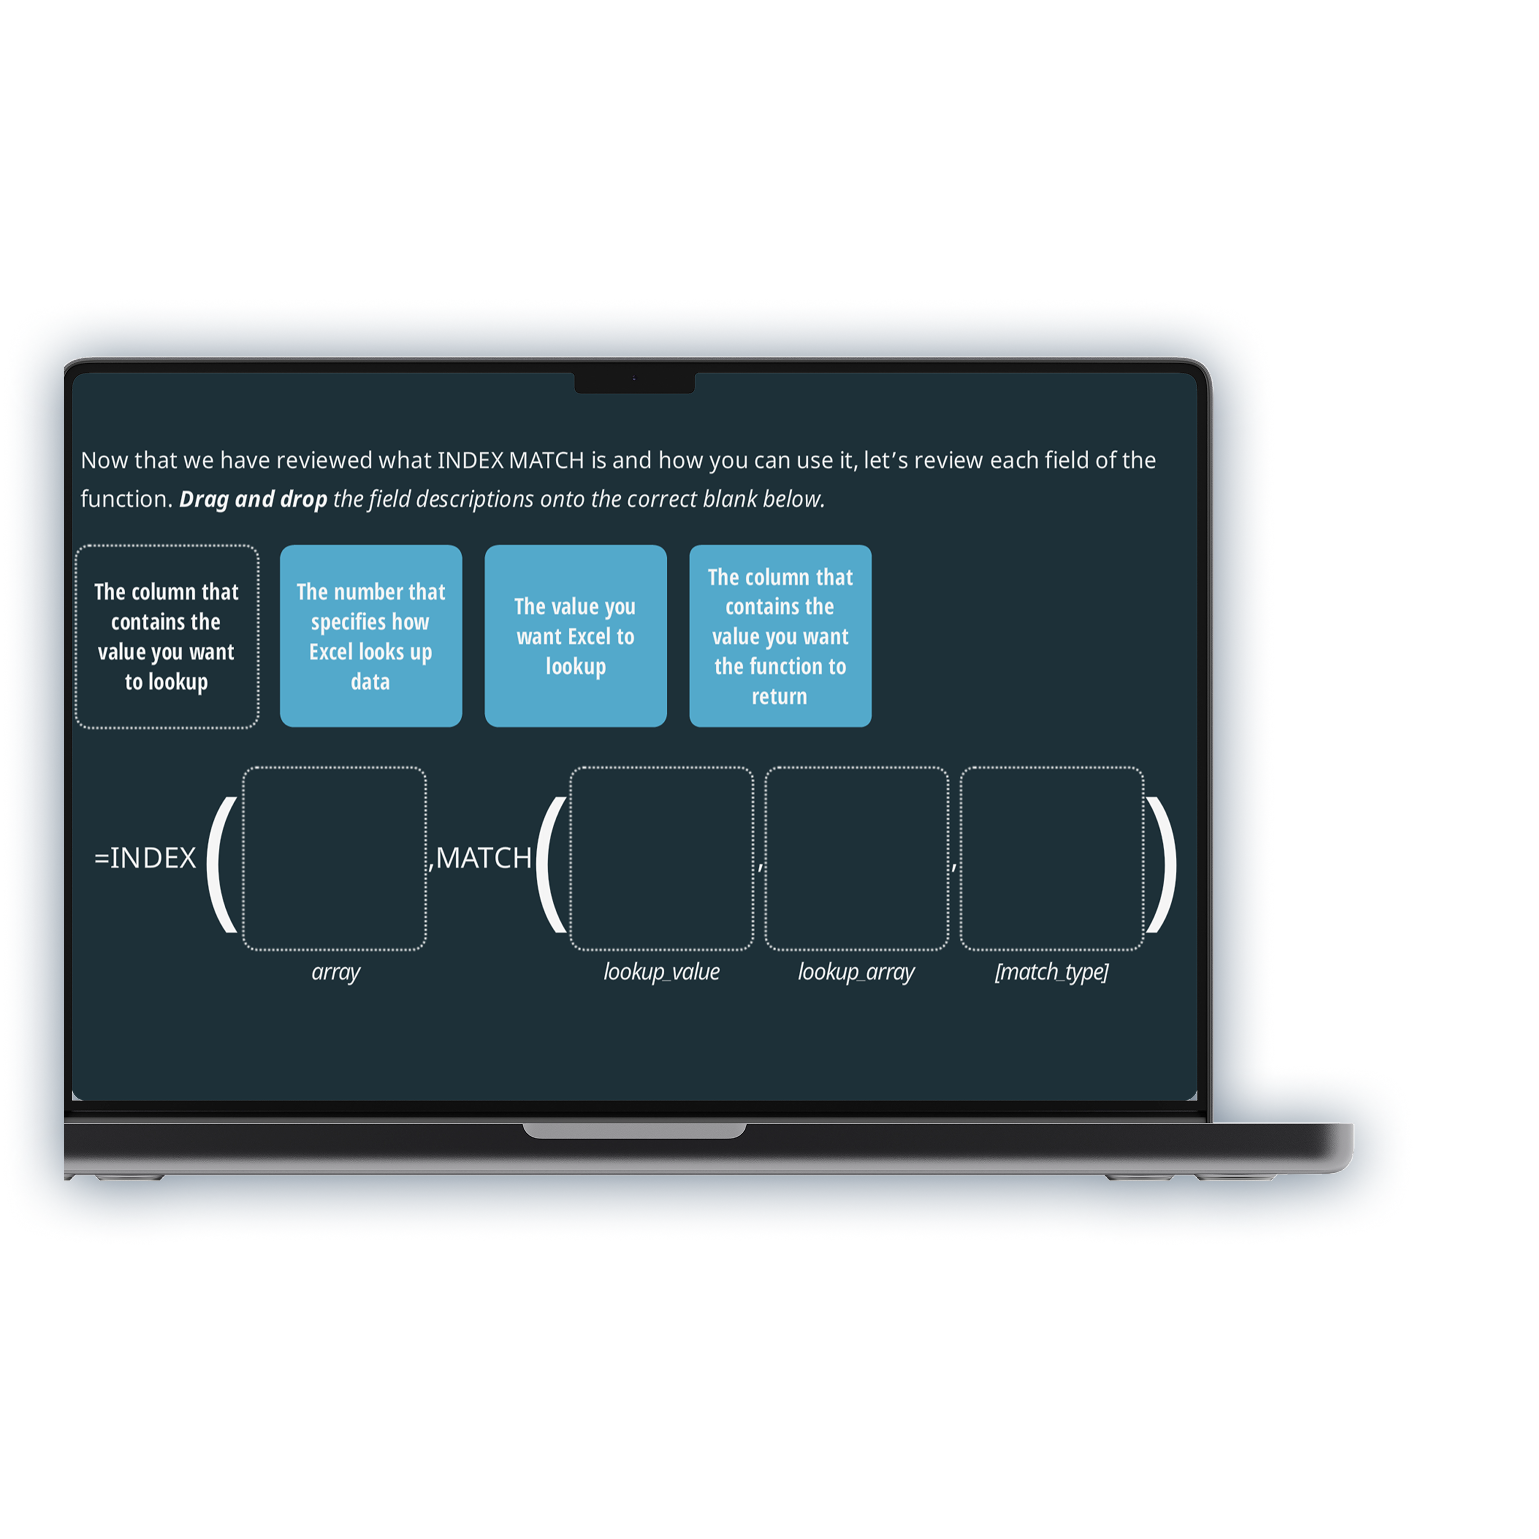
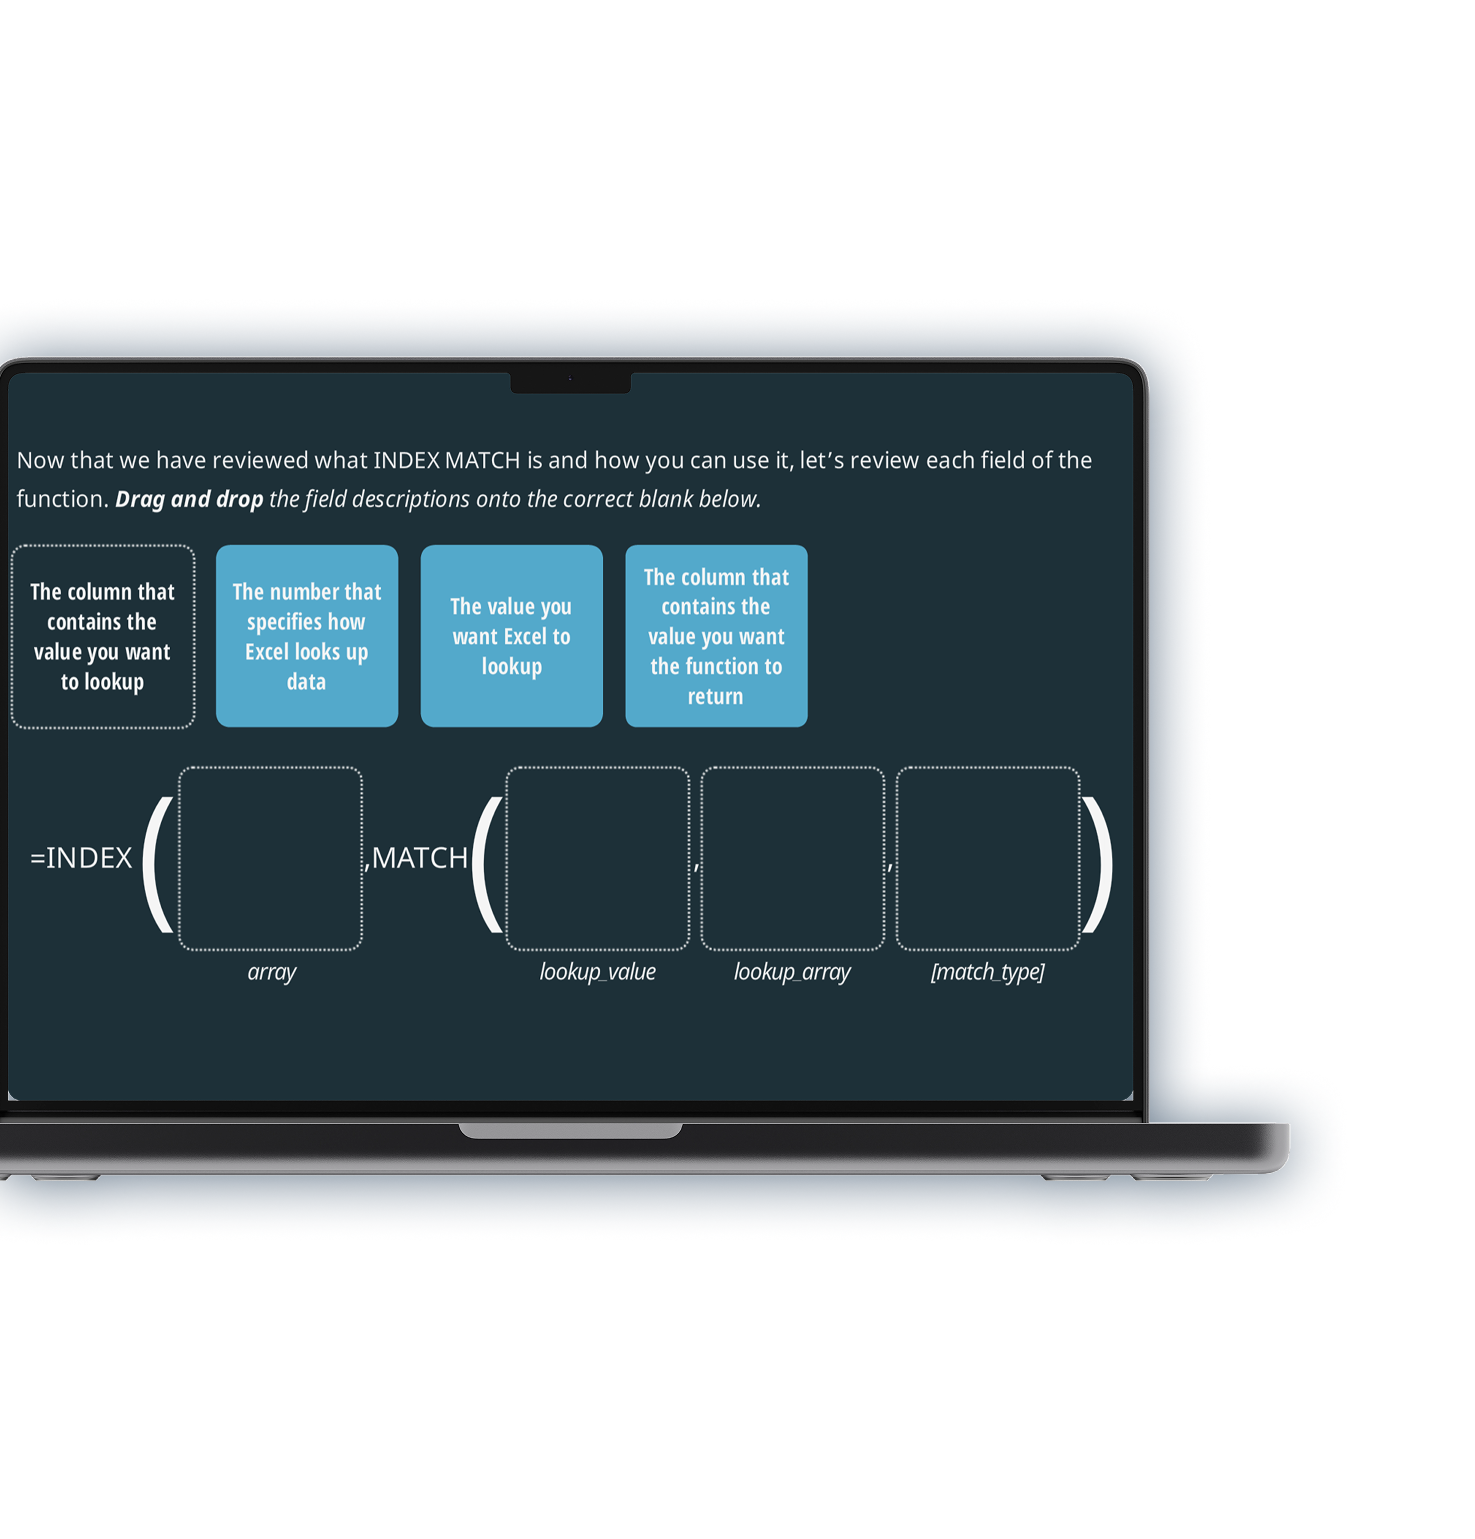
fixed hero text wrapping and other small issues

diff --git a/app/projects/rapid-prototype-testing/page.tsx b/app/projects/rapid-prototype-testing/page.tsx
@@ -33,37 +33,29 @@ export default function RapidPrototypeTestingPage() {
       {/* All page content - centered wrapper */}
       <div className="max-w-[1280px] mx-auto px-6">
         {/* Challenge Section */}
-        <section
-          id="challenge"
-          className="py-6 md:py-12 lg:py-12 max-w-[580px] mx-auto"
-        >
+        <section id="challenge" className="py-6 md:py-12 lg:py-12 max-w-[580px] mx-auto">
           <h2 className="h3-bold text-mist-dark mb-6">Challenge</h2>
           <div className="body-base text-neutral-dark space-y-4">
             <p>
-              At Gartner, my team supported 18 product teams across three brands
-              serving more than nine million monthly users. While user research
-              was highly valued, our operating model made it difficult to
-              influence product decisions at the pace teams were shipping.
+              At Gartner, my team supported 18 product teams across three brands serving more than
+              nine million monthly users. While user research was highly valued, our operating model
+              made it difficult to influence product decisions at the pace teams were shipping.
             </p>
             <p>
-              Research was typically conducted as large, project-based studies
-              designed to answer every question at once. These studies often
-              took six to eight weeks to complete, limiting teams' ability to
-              iterate, validate assumptions, and learn continuously.
+              Research was typically conducted as large, project-based studies designed to answer
+              every question at once. These studies often took six to eight weeks to complete,
+              limiting teams' ability to iterate, validate assumptions, and learn continuously.
             </p>
             <p>As a result:</p>
             <ul className="list-disc list-outside pl-6 space-y-2 body-base text-neutral-dark">
               <li>Research was often disconnected from sprint cycles.</li>
-              <li>
-                Product teams hesitated to request studies because of lead
-                times.
-              </li>
+              <li>Product teams hesitated to request studies because of lead times.</li>
               <li>Design decisions were made with limited user feedback.</li>
               <li>Valuable opportunities for iteration were missed.</li>
             </ul>
             <p>
-              I saw an opportunity to fundamentally change how research and
-              product development worked together.
+              I saw an opportunity to fundamentally change how research and product development
+              worked together.
             </p>
           </div>
         </section>
@@ -74,7 +66,7 @@ export default function RapidPrototypeTestingPage() {
           <div className="block md:hidden">
             <Image
               src="/images/rapid-prototype/3-steps-mobile.svg"
-              alt="Three-step process diagram showing a rapid testing approach that moves from quick research to learning and iteration."
+              alt="Three-step diagram showing the problems with the traditional research process."
               width={600}
               height={400}
             />
@@ -84,7 +76,7 @@ export default function RapidPrototypeTestingPage() {
           <div className="hidden md:block">
             <Image
               src="/images/rapid-prototype/3-steps.svg"
-              alt="Three-step process diagram showing a rapid testing approach that moves from quick research to learning and iteration."
+              alt="Three-step diagram showing the problems with the traditional research process."
               width={1200}
               height={600}
             />
@@ -93,14 +85,11 @@ export default function RapidPrototypeTestingPage() {
 
         {/* My Role Section */}
         <section className="py-6 md:py-12 lg:py-12 max-w-[580px] mx-auto">
-          <h3 className="h4-bold text-mist-dark mb-6">
-            My Role as a Design Leader
-          </h3>
+          <h3 className="h4-bold text-mist-dark mb-6">My Role as a Design Leader</h3>
           <div className="body-base text-neutral-dark space-y-4">
             <p>
-              As Associate Director of UX, I led the creation and rollout of a
-              new rapid-testing operating model designed to embed customer
-              feedback directly into product development.
+              As Associate Director of UX, I led the creation and rollout of a new rapid-testing
+              operating model designed to embed customer feedback directly into product development.
             </p>
             <p>I was responsible for:</p>
             <ul className="list-disc list-outside pl-6 space-y-2 body-base text-neutral-dark">
@@ -114,33 +103,25 @@ export default function RapidPrototypeTestingPage() {
         </section>
 
         {/* Approach Section */}
-        <section
-          id="approach"
-          className="py-6 md:py-12 lg:py-12 max-w-[580px] mx-auto"
-        >
-          <h2 className="h3-bold text-mist-dark mb-6 md:mb-6 lg:mb-6">
-            Approach
-          </h2>
+        <section id="approach" className="py-6 md:py-12 lg:py-12 max-w-[580px] mx-auto">
+          <h2 className="h3-bold text-mist-dark mb-6 md:mb-6 lg:mb-6">Approach</h2>
           <div className="body-base text-neutral-dark space-y-4">
             <p>
-              Rather than treating research as a standalone activity, I
-              partnered with product leadership to redesign how teams learned
-              from users. We shifted from large, multi-question studies toward a
-              series of focused experiments designed to answer a small number of
-              high-priority questions each sprint.
+              Rather than treating research as a standalone activity, I partnered with product
+              leadership to redesign how teams learned from users. We shifted from large,
+              multi-question studies toward a series of focused experiments designed to answer a
+              small number of high-priority questions each sprint.
             </p>
             <p>This allowed teams to:</p>
             <ul className="list-disc list-outside pl-6 space-y-2 body-base text-neutral-dark">
               <li>Validate assumptions earlier.</li>
               <li>Iterate on designs continuously.</li>
               <li>Reduce the cost of failed ideas.</li>
-              <li>
-                Incorporate customer feedback into ongoing decision-making.
-              </li>
+              <li>Incorporate customer feedback into ongoing decision-making.</li>
             </ul>
             <p>
-              The goal was not simply faster research—it was creating a
-              sustainable system for evidence-based product development.
+              The goal was not simply faster research—it was creating a sustainable system for
+              evidence-based product development.
             </p>
           </div>
         </section>
@@ -169,22 +150,16 @@ export default function RapidPrototypeTestingPage() {
         </div>
 
         {/* Example 1 Section */}
-        <section
-          id="recommendations"
-          className="py-6 md:py-12 lg:py-12 max-w-[580px] mx-auto"
-        >
+        <section id="recommendations" className="py-6 md:py-12 lg:py-12 max-w-[580px] mx-auto">
           <h2 className="h3-bold text-mist-dark mb-6 md:mb-6 lg:mb-6">
             Examples and Recommendations
           </h2>
-          <h3 className="h4-bold text-neutral-dark mb-6">
-            Example #1: New Product Development
-          </h3>
+          <h3 className="h4-bold text-neutral-dark mb-6">Example #1: New Product Development</h3>
           <div className="space-y-4 body-base text-neutral-dark">
             <p>
-              I piloted the new process with a newly formed team launching
-              Capterra Services, a brand-new product line. We scoped our
-              research questions so that we could provide results in a single
-              sprint. We piloted three tests:
+              I piloted the new process with a newly formed team launching Capterra Services, a
+              brand-new product line. We scoped our research questions so that we could provide
+              results in a single sprint. We piloted three tests:
             </p>
             <ul className="list-disc list-outside pl-6 space-y-2">
               <li>Pricing clarity on mobile</li>
@@ -192,10 +167,9 @@ export default function RapidPrototypeTestingPage() {
               <li>Ability to add/remove service providers on mobile</li>
             </ul>
             <p>
-              Each test delivered clear insights in 10 business days or less,
-              helping the team iterate quickly and confidently. Ultimately, we
-              expected these designs to deliver better user experiences that
-              will in turn increase vendor conversion rate.
+              Each test delivered clear insights in 10 business days or less, helping the team
+              iterate quickly and confidently. Ultimately, we expected these designs to deliver
+              better user experiences that will in turn increase vendor conversion rate.
             </p>
           </div>
         </section>
@@ -228,19 +202,16 @@ export default function RapidPrototypeTestingPage() {
 
         {/* Example 2 Section */}
         <section className="py-6 md:py-12 lg:py-12 max-w-[580px] mx-auto">
-          <h3 className="h4-bold text-neutral-dark mb-6">
-            Example #2: Conversion Optimization
-          </h3>
+          <h3 className="h4-bold text-neutral-dark mb-6">Example #2: Conversion Optimization</h3>
           <div className="space-y-4 body-base text-neutral-dark">
             <p>
-              I then scaled to a more established team, resulting in speeding up
-              the ability for design to drive conversion and revenue impact. A
-              traditional test this team ran took 7 weeks, focused on improving
-              the trustworthiness of the forms that connect users to software
-              advisors. While that test successfully improved conversion by 18%,
-              we were looking to achieve similar results in less time. My new
-              rapid testing program delivered learnings in 1.5 weeks, with a
-              projected impact of $1 million in net new revenue.
+              I then scaled to a more established team, resulting in speeding up the ability for
+              design to drive conversion and revenue impact. A traditional test this team ran took 7
+              weeks, focused on improving the trustworthiness of the forms that connect users to
+              software advisors. While that test successfully improved conversion by 18%, we were
+              looking to achieve similar results in less time. My new rapid testing program
+              delivered learnings in 1.5 weeks, with a projected impact of $1 million in net new
+              revenue.
             </p>
           </div>
         </section>
@@ -254,15 +225,13 @@ export default function RapidPrototypeTestingPage() {
                 src: "/images/rapid-prototype/PPL form traditional test 1.png",
                 alt: "...",
                 header: "Traditional Test 1",
-                subheader:
-                  "How trustworthy are current-state Software Advice forms?",
+                subheader: "How trustworthy are current-state Software Advice forms?",
               },
               {
                 src: "/images/rapid-prototype/PPL form traditional test 2.png",
                 alt: "...",
                 header: "Traditional Test 2",
-                subheader:
-                  "How trustworthy are the re-designed Software Advice forms?",
+                subheader: "How trustworthy are the re-designed Software Advice forms?",
               },
             ]}
             captions={[
@@ -287,8 +256,7 @@ export default function RapidPrototypeTestingPage() {
                 src: "/images/rapid-prototype/PPL form rapid test 2.png",
                 alt: "...",
                 header: "Rapid Test 2",
-                subheader:
-                  "How trustworthy are the re-designed Capterra forms?",
+                subheader: "How trustworthy are the re-designed Capterra forms?",
               },
             ]}
             captions={[
@@ -300,22 +268,17 @@ export default function RapidPrototypeTestingPage() {
 
         {/* Example 3 Section */}
         <section className="py-6 md:py-12 lg:py-12 max-w-[580px] mx-auto">
-          <h3 className="h4-bold text-neutral-dark mb-6">
-            Example #3: Product Engagement
-          </h3>
+          <h3 className="h4-bold text-neutral-dark mb-6">Example #3: Product Engagement</h3>
           <div className="space-y-4 body-base text-neutral-dark">
             <p>
-              I also scaled to a team with a different goal, demonstrating how
-              the process works for a variety of teams and objectives. This team
-              was focused on improving the usability and usefulness of the
-              Capterra Shortlist. The last, traditional test ran on the
-              Shortlist took eight weeks. After coaching the team on switching
-              to a rapid testing model, the team saw an{" "}
-              <b>18.6% increase in engagement</b> from the first test. While the
-              second test was unsuccessful, the third test received more
-              positive feedback. Each test was only 8 business days, showing how
-              quickly the team could move on from a failed test and towards
-              better, more successful experiences.
+              I also scaled to a team with a different goal, demonstrating how the process works for
+              a variety of teams and objectives. This team was focused on improving the usability
+              and usefulness of the Capterra Shortlist. The last, traditional test ran on the
+              Shortlist took eight weeks. After coaching the team on switching to a rapid testing
+              model, the team saw an <b>18.6% increase in engagement</b> from the first test. While
+              the second test was unsuccessful, the third test received more positive feedback. Each
+              test was only 8 business days, showing how quickly the team could move on from a
+              failed test and towards better, more successful experiences.
             </p>
           </div>
         </section>
@@ -345,41 +308,32 @@ export default function RapidPrototypeTestingPage() {
                 src: "/images/rapid-prototype/Shortlist rapid test 2.png",
                 alt: "...",
                 header: "Shortlist Rapid Test 2",
-                subheader:
-                  "How useful is seeing more products?",
+                subheader: "How useful is seeing more products?",
               },
               {
                 src: "/images/rapid-prototype/Shortlist Rapid Test 3.png",
                 alt: "...",
                 header: "Shortlist Rapid Test 3",
-                subheader:
-                  "How useful are expanded product cards?",
+                subheader: "How useful are expanded product cards?",
               },
             ]}
           />
         </div>
 
         {/* Impact Section */}
-        <section
-          id="impact"
-          className="py-6 md:py-12 lg:py-12 max-w-[580px] mx-auto"
-        >
-          <h2 className="h3-bold text-mist-dark mb-6 md:mb-6 lg:mb-6">
-            Impact
-          </h2>
+        <section id="impact" className="py-6 md:py-12 lg:py-12 max-w-[580px] mx-auto">
+          <h2 className="h3-bold text-mist-dark mb-6 md:mb-6 lg:mb-6">Impact</h2>
           <div className="space-y-4 body-base text-neutral-dark">
             <p>
-              The rapid testing program I launched and scaled allowed us to
-              speed up time to insights without sacrificing reliability or
-              quality, enabling more iteration not just on the designs but on
-              our understanding of our users and what they need.
+              The rapid testing program I launched and scaled allowed us to speed up time to
+              insights without sacrificing reliability or quality, enabling more iteration not just
+              on the designs but on our understanding of our users and what they need.
             </p>
             <p>
               After launching this new way of doing research,{" "}
-              <b>we tripled the number of tests run quarter-over-quarter</b>. We
-              gathered more user feedback than ever before, meaning our product
-              teams were better positioned than ever before to make more
-              user-centered decisions. Executive leadership recognized the
+              <b>we tripled the number of tests run quarter-over-quarter</b>. We gathered more user
+              feedback than ever before, meaning our product teams were better positioned than ever
+              before to make more user-centered decisions. Executive leadership recognized the
               program as a success in C-Suite and team-wide forums.
             </p>
           </div>

diff --git a/app/components/Hero.tsx b/app/components/Hero.tsx
@@ -106,27 +106,27 @@ export default function Hero({
 
           {/* Project Metadata — only renders if meta is passed */}
           {meta && (
-            <div className="flex flex-col gap-2 mt-2 sm:ps-24">
+            <div className="flex flex-col items-center gap-2 mt-2 w-full text-center sm:items-end sm:ps-24 sm:text-right">
               {meta.role && (
-                <div className="flex flex-wrap items-baseline justify-center gap-x-1 sm:justify-end">
+                <div className="flex flex-wrap items-baseline justify-center gap-x-1 w-full text-center sm:justify-end sm:text-right">
                   <span className={`h5-bold ${textDark}`}>Role:</span>
                   <span className={`h5 ${textDark}`}>{meta.role}</span>
                 </div>
               )}
               {meta.team && (
-                <div className="flex flex-wrap items-baseline justify-center gap-x-1 sm:justify-end">
+                <div className="flex flex-wrap items-baseline justify-center gap-x-1 w-full text-center sm:justify-end sm:text-right">
                   <span className={`h5-bold ${textDark}`}>Team:</span>
                   <span className={`h5 ${textDark}`}>{meta.team}</span>
                 </div>
               )}
               {meta.reach && (
-                <div className="flex flex-wrap items-baseline justify-center gap-x-1 sm:justify-end">
+                <div className="flex flex-wrap items-baseline justify-center gap-x-1 w-full text-center sm:justify-end sm:text-right">
                   <span className={`h5-bold ${textDark}`}>Reach:</span>
                   <span className={`h5 ${textDark}`}>{meta.reach}</span>
                 </div>
               )}
               {meta.timeline && (
-                <div className="flex flex-wrap items-baseline justify-center gap-x-1 sm:justify-end">
+                <div className="flex flex-wrap items-baseline justify-center gap-x-1 w-full text-center sm:justify-end sm:text-right">
                   <span className={`h5-bold ${textDark}`}>Timeline:</span>
                   <span className={`h5 ${textDark}`}>{meta.timeline}</span>
                 </div>
